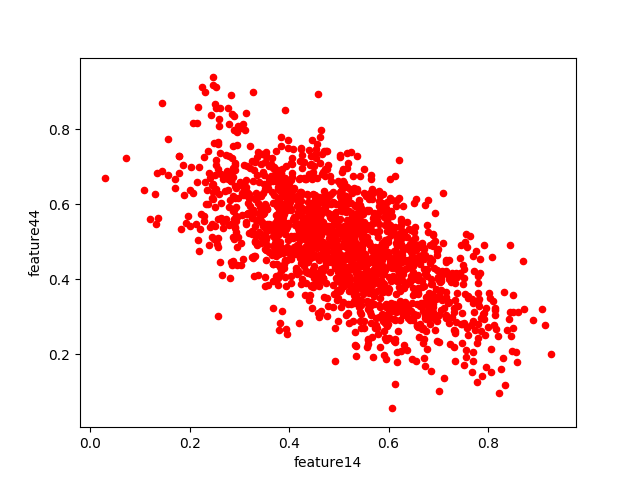
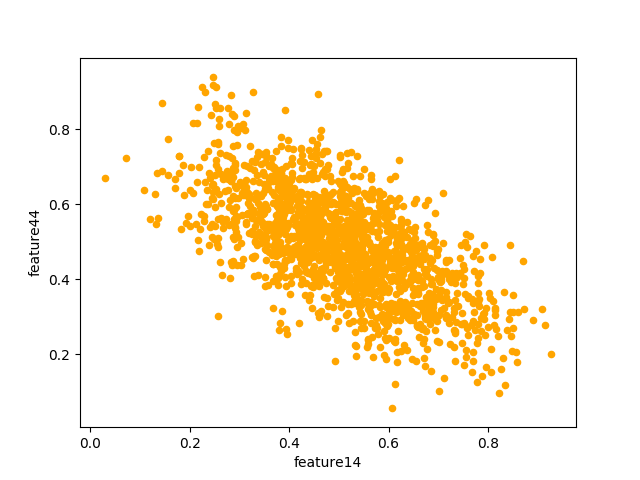
workig up image difference with numpy

diff --git a/src/correlation_matrix_target.py b/src/correlation_matrix_target.py
@@ -1,0 +1,54 @@
+import pandas as pd
+import numpy as np
+import matplotlib.pyplot as plt
+import matplotlib.image as mpimg
+from pandas.plotting import scatter_matrix
+
+from loader import load_training, pull_features
+
+
+def create_correlation_matrix(dataset, filename, cmap=plt.cm.viridis):
+    correlation = dataset.corr()
+    fig, ax = plt.subplots()
+    matrix = ax.imshow(correlation, cmap=cmap,
+                       interpolation='nearest')
+    fig.colorbar(matrix)
+    tick_marks = [i for i in range(len(dataset.columns))]
+    plt.xticks(tick_marks, dataset.columns, rotation='vertical')
+    plt.yticks(tick_marks, dataset.columns)
+    # now make the axes legible - we don't need them all
+    for label in ax.xaxis.get_ticklabels()[1::2]:
+        label.set_visible(False)
+    for label in ax.yaxis.get_ticklabels()[1::2]:
+        label.set_visible(False)
+    plt.savefig(filename)
+    plt.clf()
+
+
+def calc_image_diff(imageA_filename, imageB_filename, diff_filename):
+    imageA = mpimg.imread(imageA_filename)
+    imageB = mpimg.imread(imageB_filename)
+    print(type(imageA))
+    print(imageA.shape)
+    # print(imageA[:, :, 1])
+
+    err = np.sum((imageA.astype("float") - imageB.astype("float")) ** 2)
+    err /= float(imageA.shape[0] * imageA.shape[1])
+    print('Mean squared error', err)
+    print(imageA[:, :, 1].shape)
+    diff_image = np.subtract(imageA[:, :, 1], imageB[:, :, 1])
+    # diff_image = np.subtract(imageA, imageB)
+    print(diff_image)
+    mpimg.imsave(diff_filename, diff_image)
+
+
+training_data = load_training()
+negative = pull_features(training_data, target_bernie_value=0, for_era=1)
+positive = pull_features(training_data, target_bernie_value=1, for_era=1)
+
+create_correlation_matrix(positive, 'images/matrix_positive.png')
+
+create_correlation_matrix(negative, 'images/matrix_negative.png')
+
+calc_image_diff('images/matrix_positive.png',
+                'images/matrix_negative.png', 'images/diff.png')

diff --git a/src/scatter_matrix.py b/src/scatter_matrix.py
@@ -2,35 +2,20 @@ import pandas as pd
 import matplotlib.pyplot as plt
 from pandas.plotting import scatter_matrix
 
-from loader import load_training
+from loader import load_training, pull_features, pull_features_and_era_label
+
+
+def create_scatter_matrix(dataset, filename, color='red'):
+    fig, ax = plt.subplots(nrows=1, ncols=1)
+    scatter_matrix(dataset, color=color, ax=ax)
+    plt.savefig(filename)
+    plt.close(fig)
+
 
 training_data = load_training()
 
-
-# Transform the loaded CSV data into numpy arrays
-features = [feature for feature in list(training_data) if "feature" in feature]
-X = training_data[features]
-
-correlation = X.cov()
-plt.imshow(correlation, cmap=plt.cm.viridis, interpolation='nearest')
-plt.colorbar()
-ax = plt.axes()
-tick_marks = [i for i in range(len(X.columns))]
-plt.xticks(tick_marks, X.columns, rotation='vertical')
-plt.yticks(tick_marks, X.columns)
-# now make the axes legible - we don't need them all
-for label in ax.xaxis.get_ticklabels()[1::2]:
-    label.set_visible(False)
-for label in ax.yaxis.get_ticklabels()[1::2]:
-    label.set_visible(False)
-plt.show()
-
-# # here we manually inspect the correlation plot and pull out highly correlated features, whether positive or negative
-# # correlations = [34, 1, 44, 14, 33, 43, 15, 48, 21]
-# correlations = [1, 14, 21, 33, 48]
-# X_correlation = X.iloc[:, correlations]
-# scatter_matrix(X_correlation)
-# tick_marks = [i for i in range(len(X_correlation.columns))]
-# plt.xticks(tick_marks, X_correlation.columns, rotation='vertical')
-# plt.yticks(tick_marks, X_correlation.columns)
-# plt.show()
+features_era1 = pull_features(training_data, for_era=1)
+select_features = ['feature' + str(feature) for feature in range(10, 20)]
+frac = 1.0
+create_scatter_matrix(features_era1[select_features].sample(
+    frac=frac), 'scatter/scatter_matrix.png')

diff --git a/src/scatter_plot.py b/src/scatter_plot.py
@@ -7,14 +7,21 @@ from loader import load_training, pull_features, pull_features_and_era_label
 training_data = load_training()
 
 
-def create_scatter_plot(dataset, featureX, featureY, filename):
+def create_scatter_plot(dataset, featureX, featureY, filename, color='red'):
     fig, ax = plt.subplots(nrows=1, ncols=1)
-    dataset.plot(kind='scatter', x=featureX, y=featureY, color='r', ax=ax)
+    dataset.plot(kind='scatter', x=featureX, y=featureY, color=color, ax=ax)
     plt.savefig(filename)
     plt.close(fig)
 
 
+# the correlated features
 create_scatter_plot(pull_features(training_data), 'feature14',
                     'feature44', 'scatter/ScatterCorrelation.png')
 create_scatter_plot(pull_features(training_data, for_era=1),
-                    'feature14', 'feature44', 'scatter/Era1ScatterCorrelation.png')
+                    'feature14', 'feature44', 'scatter/Era1ScatterCorrelation.png', color='orange')
+
+# the independent features
+create_scatter_plot(pull_features(training_data), 'feature2',
+                    'feature40', 'scatter/ScatterIndependent.png', color='deepskyblue')
+create_scatter_plot(pull_features(training_data, for_era=1),
+                    'feature2', 'feature40', 'scatter/Era1ScatterIndependent.png', color='mediumseagreen')

diff --git a/src/loader.py b/src/loader.py
@@ -11,11 +11,14 @@ def load_tournament():
         './data/numerai_tournament_data.csv', header=0)
 
 
-def pull_features(data_source, for_era=None):
+def pull_features(data_source, for_era=None, target_bernie_value=None):
     if for_era is not None:
         dataset = data_source[data_source['era'] == 'era' + str(for_era)]
     else:
         dataset = data_source
+    if target_bernie_value is not None:
+        dataset = dataset[dataset['target_bernie'] == target_bernie_value]
+    # print(dataset.describe())
     features = [feature for feature in list(dataset) if "feature" in feature]
     return dataset[features]
 

diff --git a/src/scatter_plot_eras.py b/src/scatter_plot_eras.py
@@ -4,6 +4,14 @@ from pandas.plotting import scatter_matrix
 
 from loader import load_training, pull_features, pull_features_and_era_label
 
+
+def create_scatter_plot(dataset, featureX, featureY, filename, color='red'):
+    fig, ax = plt.subplots(nrows=1, ncols=1)
+    dataset.plot(kind='scatter', x=featureX, y=featureY, color=color, ax=ax)
+    plt.savefig(filename)
+    plt.close(fig)
+
+
 training_data = load_training()
 
 # X_14 = pull_features_and_era_label(training_data, for_era='14')[

diff --git a/README.md b/README.md
@@ -1,2 +1,1 @@
-# numeraiexplore
-Data exploration on Numer.ai data
+# Numer.ai data exploration
